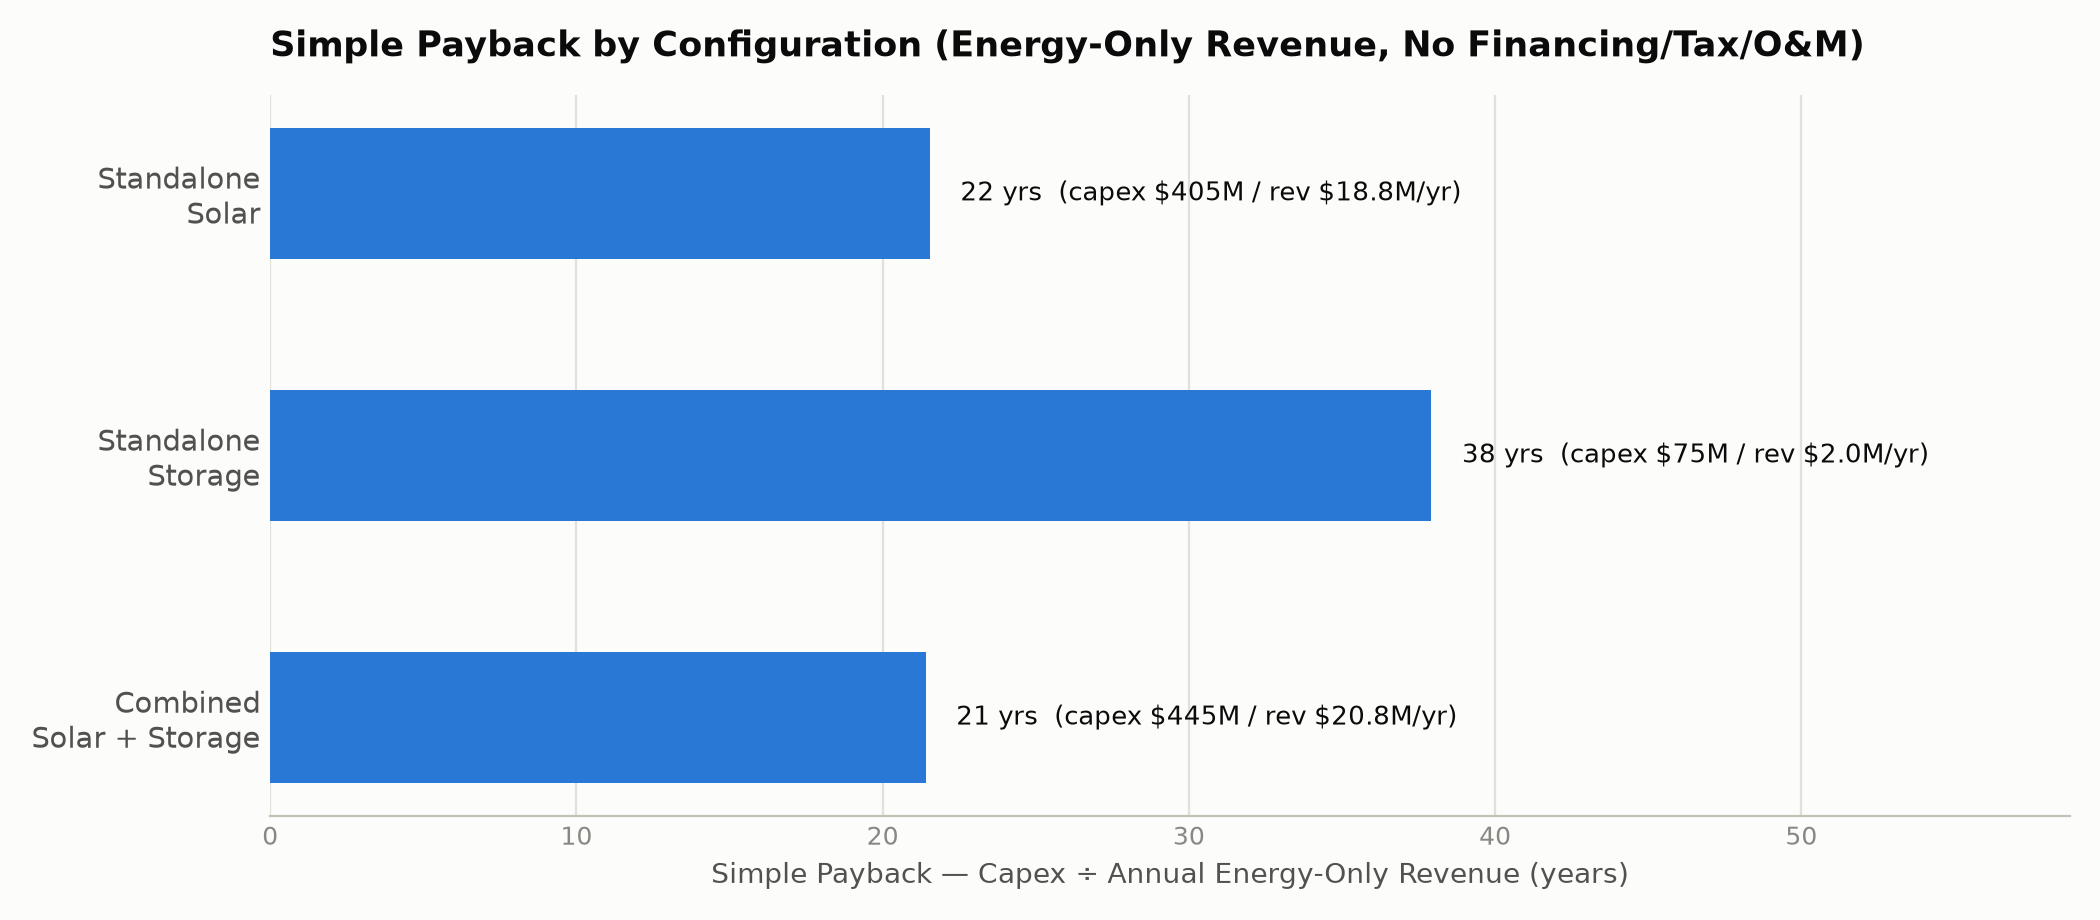
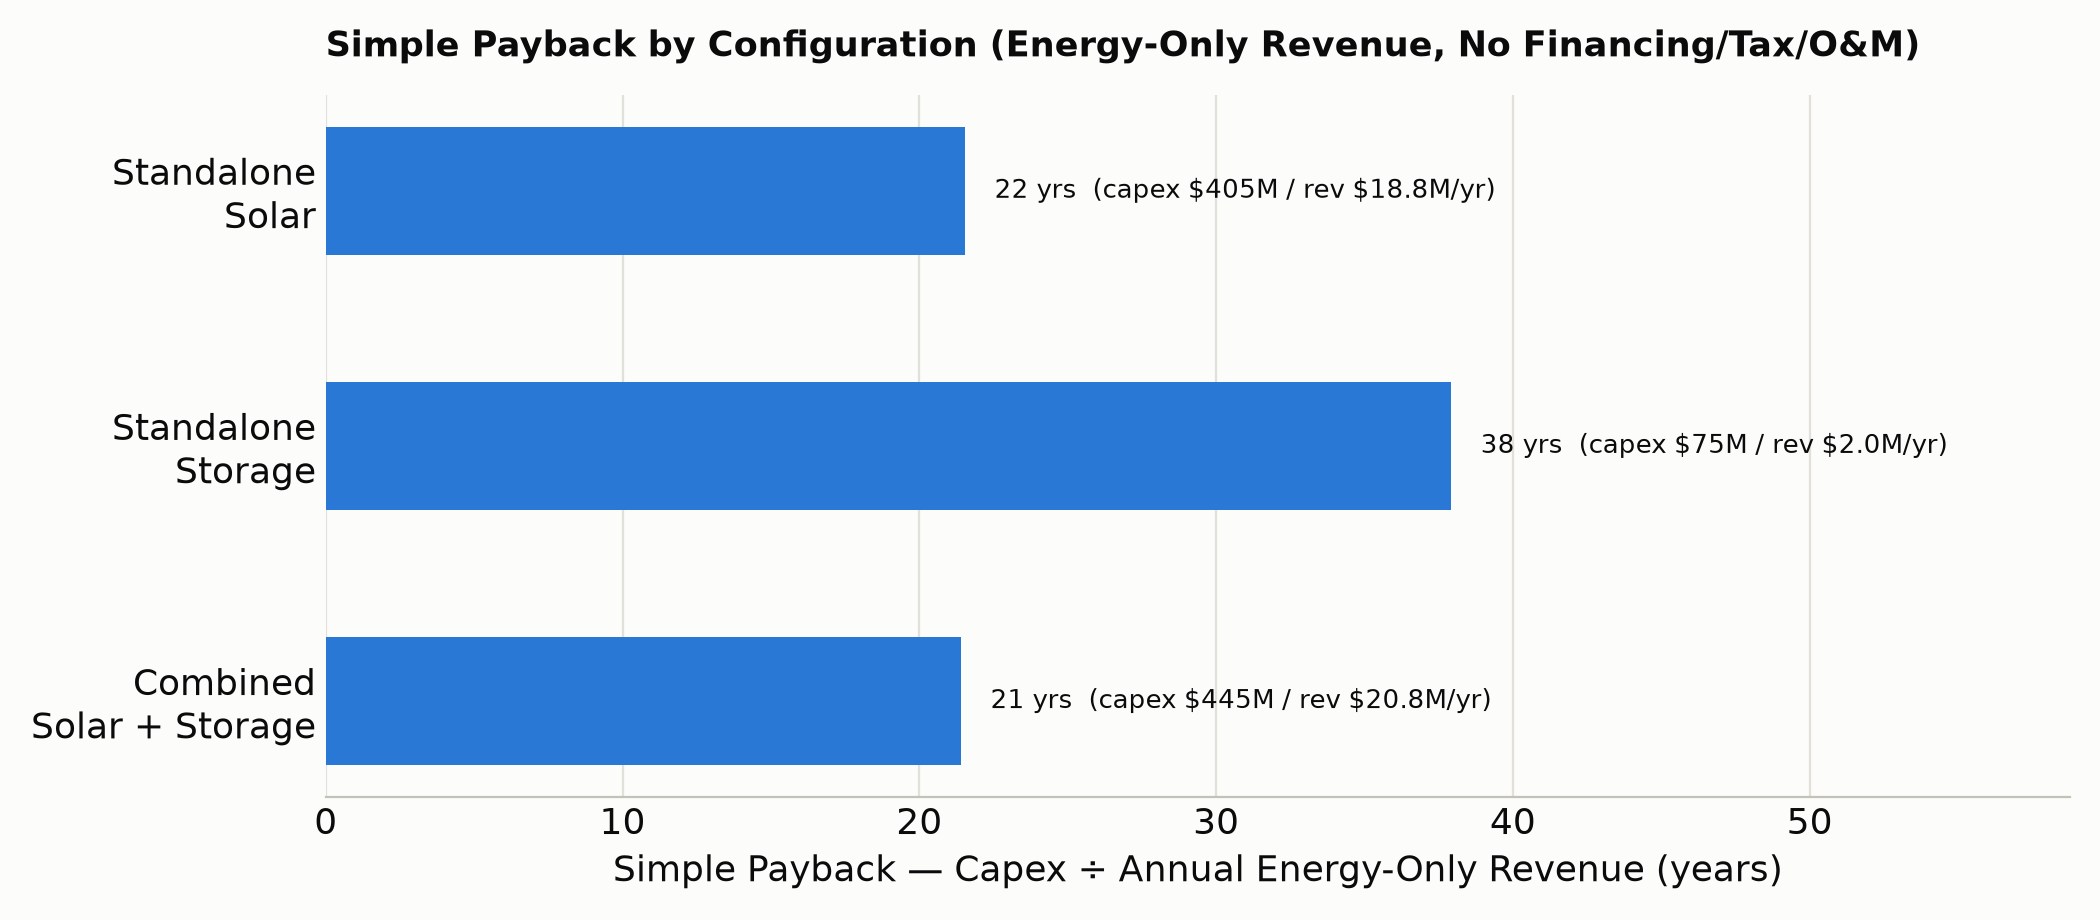
commit

diff --git a/interconnection_scenario/interconnection_reserve_tradeoff_chart.py b/interconnection_scenario/interconnection_reserve_tradeoff_chart.py
@@ -36,14 +36,14 @@ ax.annotate('', xy=(1, vals[1] + ymax * 0.14), xytext=(0, vals[0] + ymax * 0.14)
 ax.text(0.5, max(vals) + ymax * 0.2, 'grows sharply', ha='center', va='bottom',
         fontsize=11, color=GREEN, fontweight='bold')
 ax.set_xticks(x); ax.set_xticklabels(labels, color=INK_SECONDARY, fontsize=10.5)
-ax.set_ylabel('Energy Interaction Benefit (%)', color=INK_SECONDARY, fontsize=10)
+ax.set_ylabel('Energy Interaction Benefit (%)', color=INK_PRIMARY, fontsize=13)
 ax.set_title('Energy: Interaction Benefit', color=INK_PRIMARY, fontsize=13, fontweight='bold', pad=12, loc='left')
 ax.grid(axis='y', color=GRIDLINE, linewidth=0.8, zorder=0)
 ax.set_axisbelow(True)
 for s in ['top', 'right', 'left']:
     ax.spines[s].set_visible(False)
 ax.spines['bottom'].set_color(BASELINE)
-ax.tick_params(axis='y', colors=INK_MUTED, length=0, labelsize=9)
+ax.tick_params(axis='y', colors=INK_PRIMARY, length=0, labelsize=13)
 ax.tick_params(axis='x', length=0)
 
 # ---------- Panel 2: Combined reserve revenue (shrinks) ----------
@@ -60,14 +60,14 @@ ax.annotate('', xy=(1, vals[1] + ymax * 0.14), xytext=(0, vals[0] + ymax * 0.14)
 ax.text(0.5, max(vals) + ymax * 0.2, '−36.7%', ha='center', va='bottom',
         fontsize=11, color=RED, fontweight='bold')
 ax.set_xticks(x); ax.set_xticklabels(labels, color=INK_SECONDARY, fontsize=10.5)
-ax.set_ylabel('Combined Reserve Revenue ($M)', color=INK_SECONDARY, fontsize=10)
+ax.set_ylabel('Combined Reserve Revenue ($M)', color=INK_PRIMARY, fontsize=13)
 ax.set_title('Reserve: Combined Revenue', color=INK_PRIMARY, fontsize=13, fontweight='bold', pad=12, loc='left')
 ax.grid(axis='y', color=GRIDLINE, linewidth=0.8, zorder=0)
 ax.set_axisbelow(True)
 for s in ['top', 'right', 'left']:
     ax.spines[s].set_visible(False)
 ax.spines['bottom'].set_color(BASELINE)
-ax.tick_params(axis='y', colors=INK_MUTED, length=0, labelsize=9)
+ax.tick_params(axis='y', colors=INK_PRIMARY, length=0, labelsize=13)
 ax.tick_params(axis='x', length=0)
 
 fig.suptitle('The Interconnection Limit Trades Reserve Value for Energy Value',

diff --git a/analysis/q3_payback_chart.py b/analysis/q3_payback_chart.py
@@ -19,8 +19,8 @@ for yi, p, c, r in zip(y, payback, capex, revenue):
     label = f'{p:.0f} yrs  (capex \\${c/1e6:,.0f}M / rev \\${r/1e6:.1f}M/yr)'
     ax.text(p + 1, yi, label, va='center', ha='left', fontsize=9.5, color=INK_PRIMARY)
 
-ax.set_yticks(y); ax.set_yticklabels(configs, color=INK_SECONDARY, fontsize=10.5)
-ax.set_xlabel('Simple Payback — Capex ÷ Annual Energy-Only Revenue (years)', color=INK_SECONDARY, fontsize=10)
+ax.set_yticks(y); ax.set_yticklabels(configs, color=INK_PRIMARY, fontsize=13)
+ax.set_xlabel('Simple Payback — Capex ÷ Annual Energy-Only Revenue (years)', color=INK_PRIMARY, fontsize=13)
 ax.set_title('Simple Payback by Configuration (Energy-Only Revenue, No Financing/Tax/O&M)',
              color=INK_PRIMARY, fontsize=12.5, fontweight='bold', pad=14, loc='left')
 ax.set_xlim(0, max(payback)*1.55)
@@ -29,7 +29,7 @@ ax.set_axisbelow(True)
 for s in ['top','right','left']:
     ax.spines[s].set_visible(False)
 ax.spines['bottom'].set_color(BASELINE)
-ax.tick_params(axis='x', colors=INK_MUTED, length=0, labelsize=9)
+ax.tick_params(axis='x', colors=INK_PRIMARY, length=0, labelsize=13)
 ax.tick_params(axis='y', length=0)
 
 plt.tight_layout()

diff --git a/interconnection_scenario/q2_energy_only_chart_interconnection.py b/interconnection_scenario/q2_energy_only_chart_interconnection.py
@@ -49,7 +49,7 @@ ax.text(x[2], combined_solar_m + combined_storage_m / 2, f'${combined_storage_m:
 # Shared y-axis scale with the base-case chart so bar heights are directly comparable
 YMAX = max(BASE_MAX_TOTAL, combined_total_m) * 1.22
 ax.set_xticks(x); ax.set_xticklabels(labels, color=INK_SECONDARY, fontsize=10.5)
-ax.set_ylabel('2023 Backcast Revenue ($M)', color=INK_SECONDARY, fontsize=10)
+ax.set_ylabel('2023 Backcast Revenue ($M)', color=INK_PRIMARY, fontsize=13)
 ax.set_title('Energy-Only Revenue by Configuration (150 MW Interconnection Limit)',
               color=INK_PRIMARY, fontsize=13, fontweight='bold', pad=14, loc='left')
 ax.set_ylim(0, YMAX)
@@ -58,7 +58,7 @@ ax.set_axisbelow(True)
 for s in ['top', 'right', 'left']:
     ax.spines[s].set_visible(False)
 ax.spines['bottom'].set_color(BASELINE)
-ax.tick_params(axis='y', colors=INK_MUTED, length=0, labelsize=9)
+ax.tick_params(axis='y', colors=INK_PRIMARY, length=0, labelsize=13)
 ax.tick_params(axis='x', length=0)
 ax.legend(loc='upper left', frameon=False, fontsize=9.5, labelcolor=INK_SECONDARY, bbox_to_anchor=(0.0, 1.06))
 

diff --git a/analysis/storage_value_chart.py b/analysis/storage_value_chart.py
@@ -37,7 +37,7 @@ ax.text(11.55, annual_avg, f'2023 avg: ${annual_avg:.0f}/MWh', color=INK_SECONDA
 for rect, val in zip(bars, spreads):
     ax.text(rect.get_x()+rect.get_width()/2, val+1.0, f'${val:.0f}', ha='center', va='bottom', fontsize=9, color=INK_PRIMARY)
 
-ax.set_ylabel('Avg. Daily DA Price Spread ($/MWh, max-min)', color=INK_SECONDARY, fontsize=10)
+ax.set_ylabel('Avg. Daily DA Price Spread ($/MWh, max-min)', color=INK_PRIMARY, fontsize=13)
 ax.set_title('Storage Arbitrage Opportunity by Month: Avg. Daily Day-Ahead Price Spread, 2023',
              color=INK_PRIMARY, fontsize=12.5, fontweight='bold', pad=14, loc='left')
 ax.set_ylim(0, max(spreads)*1.25)
@@ -47,7 +47,7 @@ for s in ['top','right','left']:
     ax.spines[s].set_visible(False)
 ax.spines['bottom'].set_color(BASELINE)
 ax.tick_params(axis='x', colors=INK_SECONDARY, length=0, labelsize=10)
-ax.tick_params(axis='y', colors=INK_MUTED, length=0, labelsize=9)
+ax.tick_params(axis='y', colors=INK_PRIMARY, length=0, labelsize=13)
 
 plt.tight_layout()
 plt.savefig('analysis/storage_value_by_month.png', facecolor=SURFACE)

diff --git a/analysis/q2_revenue_chart.py b/analysis/q2_revenue_chart.py
@@ -31,7 +31,7 @@ for xi, val in zip(x, [solar_rev/1e6, storage_rev/1e6, combined_total/1e6]):
     ax.text(xi, val + 0.4, f'${val:.1f}M', ha='center', va='bottom', fontsize=11, color=INK_PRIMARY, fontweight='bold')
 
 ax.set_xticks(x); ax.set_xticklabels(labels, color=INK_SECONDARY, fontsize=10.5)
-ax.set_ylabel('2023 Backcast Revenue ($M)', color=INK_SECONDARY, fontsize=10)
+ax.set_ylabel('2023 Backcast Revenue ($M)', color=INK_PRIMARY, fontsize=13)
 ax.set_title('2023 Backcast Revenue by Configuration (Day-Ahead Price Basis)',
               color=INK_PRIMARY, fontsize=13, fontweight='bold', pad=14, loc='left')
 ax.set_ylim(0, combined_total/1e6 * 1.2)
@@ -40,7 +40,7 @@ ax.set_axisbelow(True)
 for s in ['top','right','left']:
     ax.spines[s].set_visible(False)
 ax.spines['bottom'].set_color(BASELINE)
-ax.tick_params(axis='y', colors=INK_MUTED, length=0, labelsize=9)
+ax.tick_params(axis='y', colors=INK_PRIMARY, length=0, labelsize=13)
 ax.tick_params(axis='x', length=0)
 ax.legend(loc='upper left', frameon=False, fontsize=9.5, labelcolor=INK_SECONDARY, bbox_to_anchor=(0.02, 0.98))
 

diff --git a/interconnection_scenario/q2_energy_plus_reserve_chart_interconnection.py b/interconnection_scenario/q2_energy_plus_reserve_chart_interconnection.py
@@ -50,7 +50,7 @@ for xi, e, r, t in zip(x, energy_vals, reserve_vals, totals):
         ax.text(xi, e + r / 2, f'+${r:.2f}M', ha='center', va='center', fontsize=8.5, color='white', fontweight='bold')
 
 ax.set_xticks(x); ax.set_xticklabels(labels, color=INK_SECONDARY, fontsize=10.5)
-ax.set_ylabel('2023 Backcast Revenue ($M)', color=INK_SECONDARY, fontsize=10)
+ax.set_ylabel('2023 Backcast Revenue ($M)', color=INK_PRIMARY, fontsize=13)
 ax.set_title('Energy + Reserve Revenue by Configuration (150 MW Interconnection Limit)',
               color=INK_PRIMARY, fontsize=13, fontweight='bold', pad=14, loc='left')
 ax.set_ylim(0, YMAX)
@@ -59,7 +59,7 @@ ax.set_axisbelow(True)
 for s in ['top', 'right', 'left']:
     ax.spines[s].set_visible(False)
 ax.spines['bottom'].set_color(BASELINE)
-ax.tick_params(axis='y', colors=INK_MUTED, length=0, labelsize=9)
+ax.tick_params(axis='y', colors=INK_PRIMARY, length=0, labelsize=13)
 ax.tick_params(axis='x', length=0)
 ax.legend(loc='upper left', frameon=False, fontsize=9, labelcolor=INK_SECONDARY, bbox_to_anchor=(0.0, 1.05))
 

diff --git a/interconnection_scenario/interconnection_chart.py b/interconnection_scenario/interconnection_chart.py
@@ -40,7 +40,7 @@ for xi, s, c in zip(x, standalone_sums, combined_totals):
             fontsize=10.5, color=ORANGE, fontweight='bold')
 
 ax.set_xticks(x); ax.set_xticklabels(labels, color=INK_SECONDARY, fontsize=11)
-ax.set_ylabel('2023 Backcast Revenue ($M)', color=INK_SECONDARY, fontsize=10)
+ax.set_ylabel('2023 Backcast Revenue ($M)', color=INK_PRIMARY, fontsize=13)
 ax.set_title('Interaction Benefit Grows Sharply Under a Binding Interconnection Limit',
               color=INK_PRIMARY, fontsize=13.5, fontweight='bold', pad=44, loc='left')
 ax.grid(axis='y', color=GRIDLINE, linewidth=0.8, zorder=0)
@@ -48,7 +48,7 @@ ax.set_axisbelow(True)
 for s in ['top', 'right', 'left']:
     ax.spines[s].set_visible(False)
 ax.spines['bottom'].set_color(BASELINE)
-ax.tick_params(axis='y', colors=INK_MUTED, length=0, labelsize=9)
+ax.tick_params(axis='y', colors=INK_PRIMARY, length=0, labelsize=13)
 ax.tick_params(axis='x', length=0)
 ax.legend(loc='lower center', bbox_to_anchor=(0.5, 1.01), ncol=2, frameon=False,
           fontsize=9.5, labelcolor=INK_SECONDARY)

diff --git a/analysis/monthly_da_price.py b/analysis/monthly_da_price.py
@@ -50,7 +50,7 @@ for rect, val in zip(bars, avgs):
     ax.text(rect.get_x() + rect.get_width()/2, val + 0.9, f'${val:.0f}',
             ha='center', va='bottom', fontsize=9, color=INK_PRIMARY)
 
-ax.set_ylabel('Avg. Day-Ahead Price ($/MWh)', color=INK_SECONDARY, fontsize=10)
+ax.set_ylabel('Avg. Day-Ahead Price ($/MWh)', color=INK_PRIMARY, fontsize=13)
 ax.set_title('NYISO N.Y.C. Zone — Monthly Average Day-Ahead Energy Price, 2023',
              color=INK_PRIMARY, fontsize=13, fontweight='bold', pad=14, loc='left')
 
@@ -63,7 +63,7 @@ for spine in ['top', 'right', 'left']:
     ax.spines[spine].set_visible(False)
 ax.spines['bottom'].set_color(BASELINE)
 ax.tick_params(axis='x', colors=INK_SECONDARY, length=0, labelsize=10)
-ax.tick_params(axis='y', colors=INK_MUTED, length=0, labelsize=9)
+ax.tick_params(axis='y', colors=INK_PRIMARY, length=0, labelsize=13)
 
 plt.tight_layout()
 plt.savefig('analysis/monthly_da_price_2023.png', facecolor=SURFACE)

diff --git a/analysis/q2_reserve_chart.py b/analysis/q2_reserve_chart.py
@@ -22,7 +22,7 @@ YMAX = max(totals) * 1.22  # shared scale across both charts for direct visual c
 
 def style_axes(ax, title):
     ax.set_xticks(x); ax.set_xticklabels(labels, color=INK_SECONDARY, fontsize=10.5)
-    ax.set_ylabel('2023 Backcast Revenue ($M)', color=INK_SECONDARY, fontsize=10)
+    ax.set_ylabel('2023 Backcast Revenue ($M)', color=INK_PRIMARY, fontsize=13)
     ax.set_title(title, color=INK_PRIMARY, fontsize=13, fontweight='bold', pad=14, loc='left')
     ax.set_ylim(0, YMAX)
     ax.grid(axis='y', color=GRIDLINE, linewidth=0.8, zorder=0)
@@ -30,7 +30,7 @@ def style_axes(ax, title):
     for s in ['top', 'right', 'left']:
         ax.spines[s].set_visible(False)
     ax.spines['bottom'].set_color(BASELINE)
-    ax.tick_params(axis='y', colors=INK_MUTED, length=0, labelsize=9)
+    ax.tick_params(axis='y', colors=INK_PRIMARY, length=0, labelsize=13)
     ax.tick_params(axis='x', length=0)
 
 

diff --git a/analysis/solar_value_chart.py b/analysis/solar_value_chart.py
@@ -38,14 +38,14 @@ ax1.bar(x - w/2, flat, width=w, color='#c3c2b7', label='Flat monthly avg. DA pri
 ax1.bar(x + w/2, capture, width=w, color=BLUE, label='Solar generation-weighted (capture) price', zorder=3)
 
 ax1.set_xticks(x); ax1.set_xticklabels(months, color=INK_SECONDARY, fontsize=10)
-ax1.set_ylabel('$/MWh', color=INK_SECONDARY, fontsize=10)
+ax1.set_ylabel('$/MWh', color=INK_PRIMARY, fontsize=13)
 ax1.set_ylim(0, max(flat+capture)*1.25)
 ax1.grid(axis='y', color=GRIDLINE, linewidth=0.8, zorder=0)
 ax1.set_axisbelow(True)
 for s in ['top','right','left']:
     ax1.spines[s].set_visible(False)
 ax1.spines['bottom'].set_color(BASELINE)
-ax1.tick_params(axis='y', colors=INK_MUTED, length=0, labelsize=9)
+ax1.tick_params(axis='y', colors=INK_PRIMARY, length=0, labelsize=13)
 ax1.tick_params(axis='x', length=0)
 
 ax1.set_title('Solar Value by Month: Capture Price vs. Flat Average (2023, NYISO N.Y.C.)',
